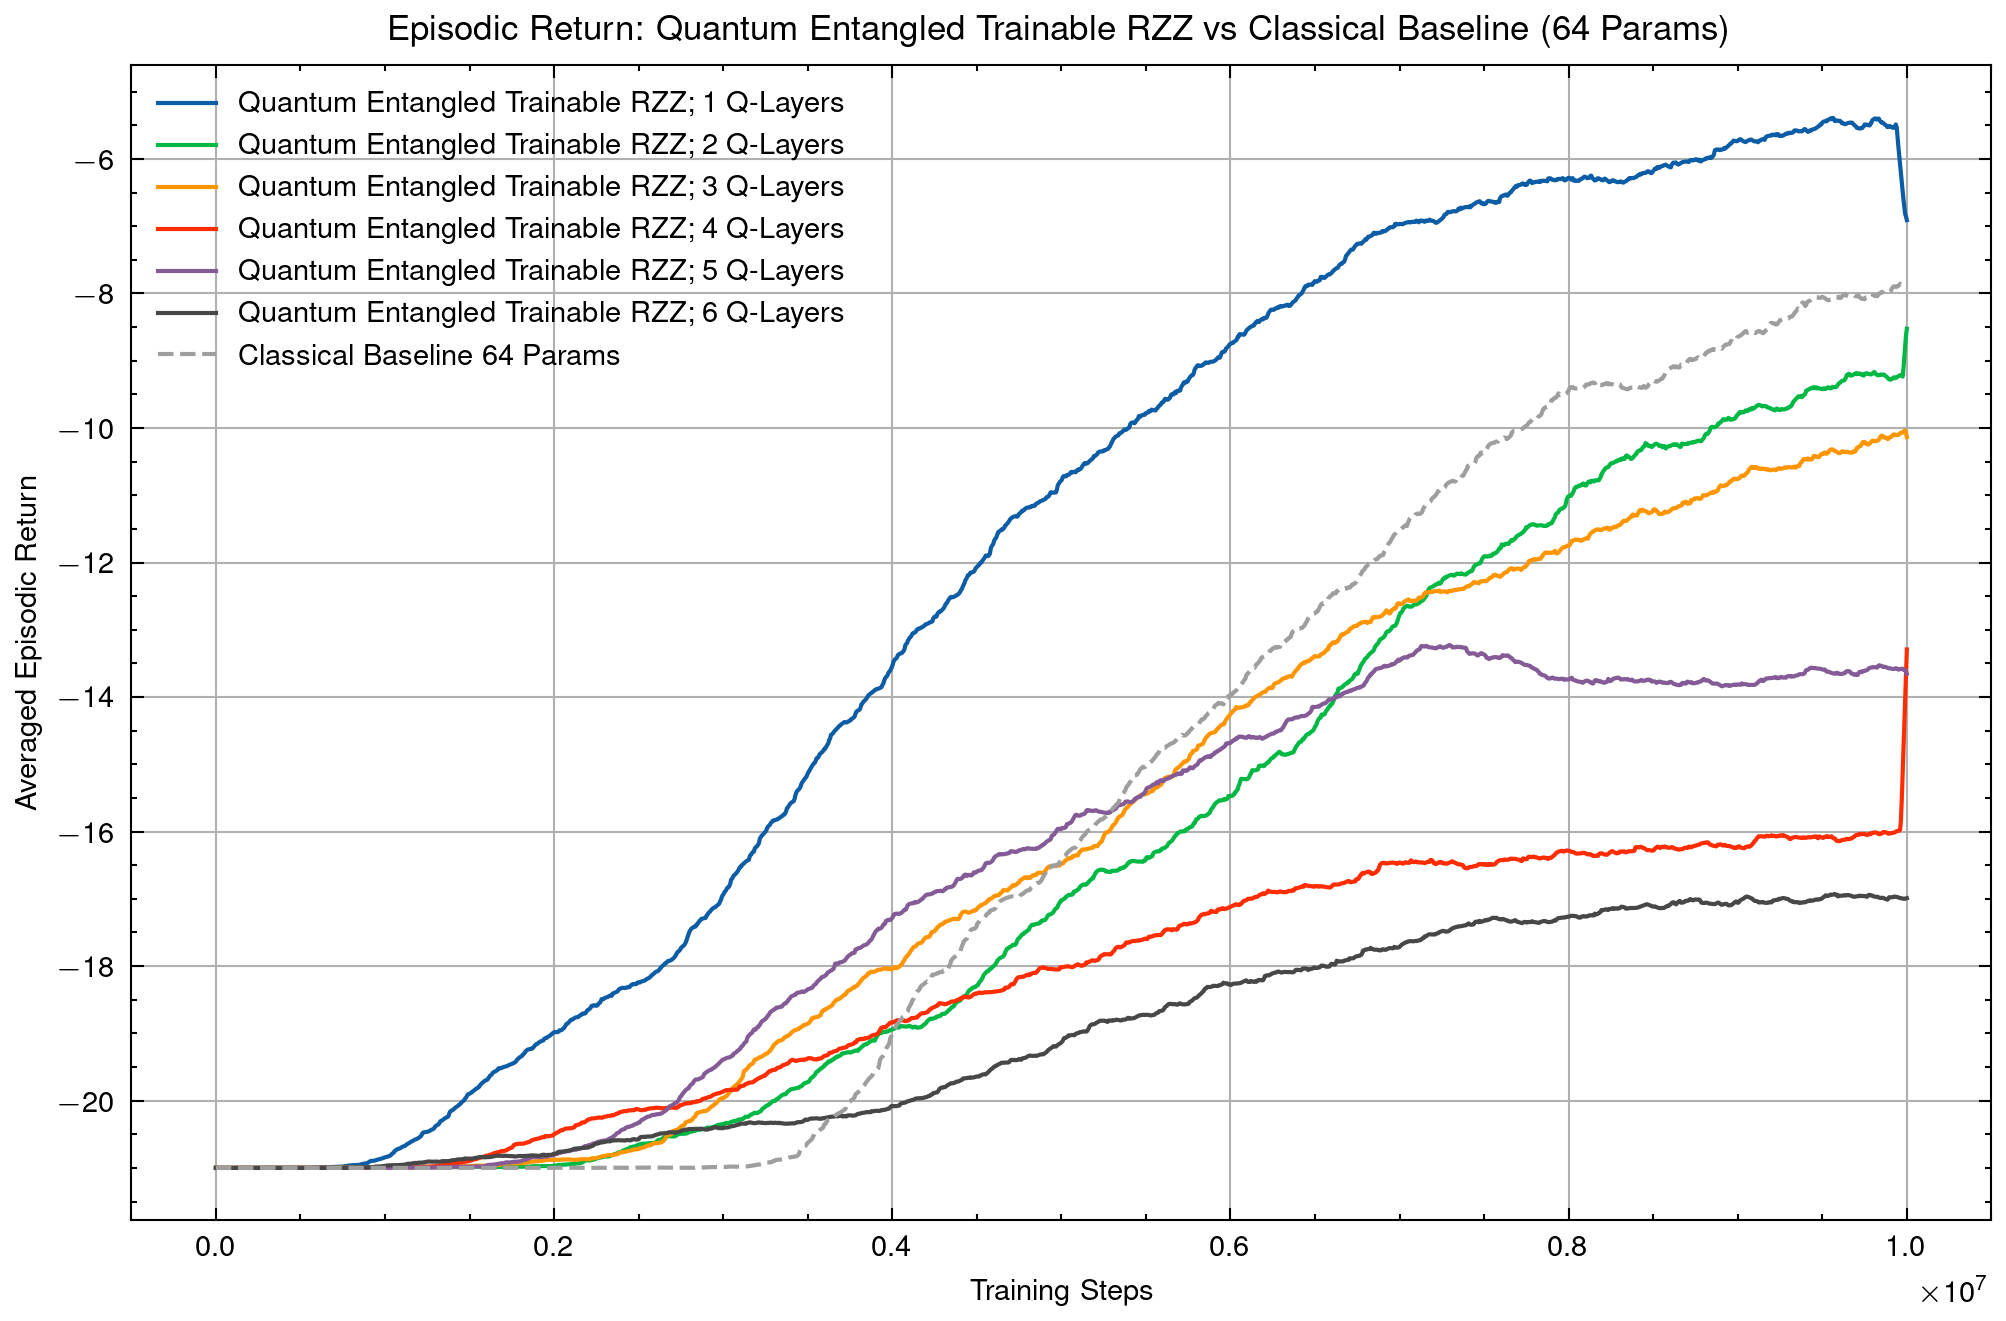
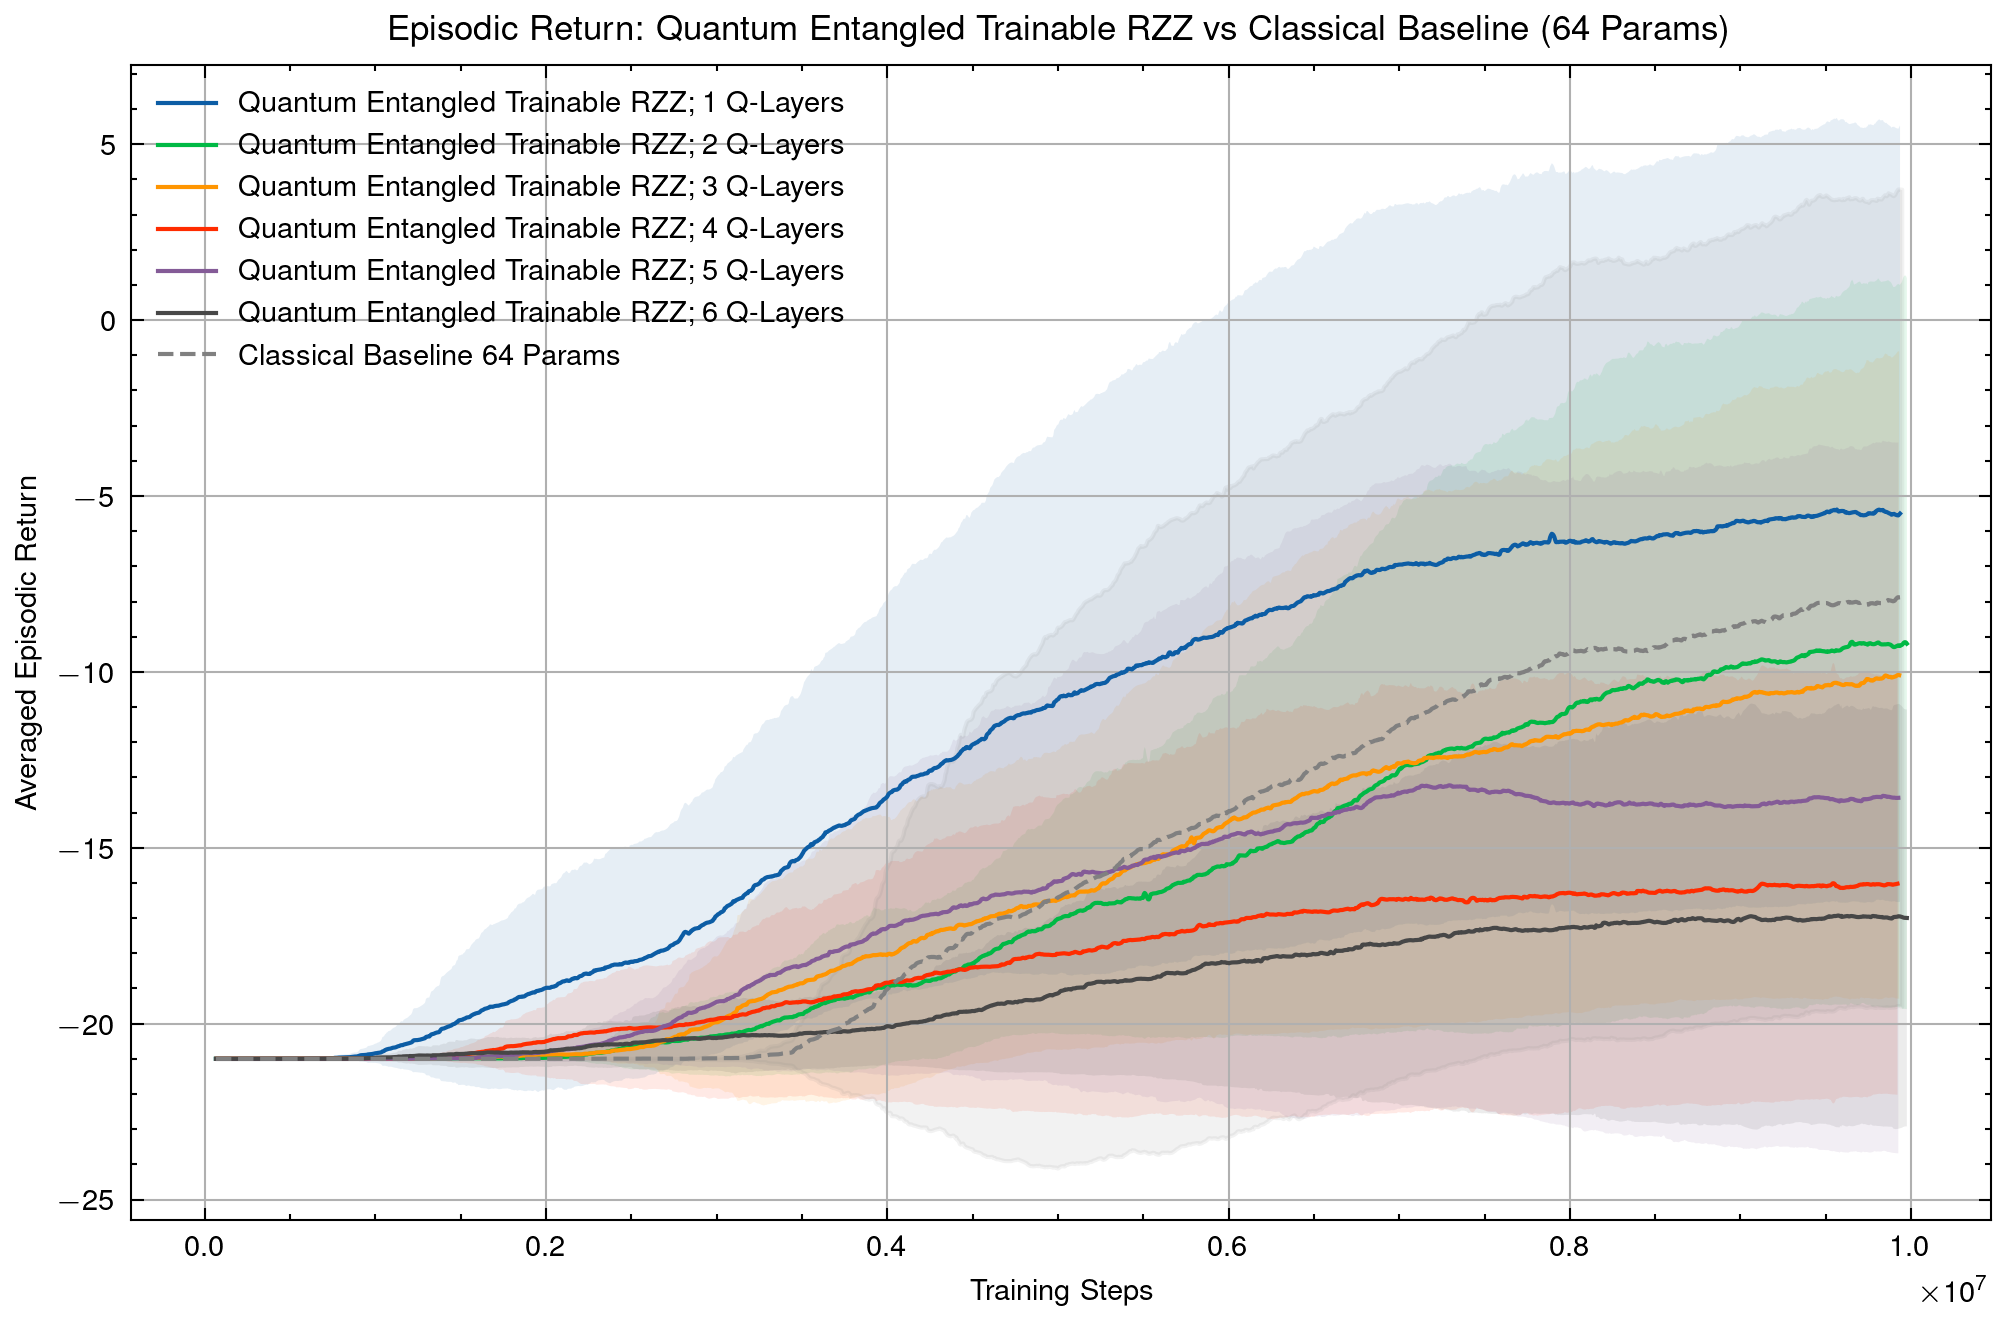
Refactor plot generation to include standard deviation shading and update interpolation methods

diff --git a/generate_plots.py b/generate_plots.py
@@ -3,7 +3,7 @@ import os
 from pathlib import Path
 import pandas as pd
 import numpy as np
-from scipy.interpolate import interp1d
+from scipy.interpolate import PchipInterpolator, Akima1DInterpolator
 import matplotlib.pyplot as plt
 import seaborn as sns
 import scienceplots
@@ -115,7 +115,7 @@ def smooth_and_resample(df, span=50):
     Smooth the time series data using EMA and resample to uniform steps.
     """
     df_smoothed = time_series_exponential_moving_average(df, span=span)
-    interp_func = interp1d(df_smoothed['step'], df_smoothed['value'], kind='linear', fill_value="extrapolate")
+    interp_func = Akima1DInterpolator(df_smoothed['step'], df_smoothed['value'], extrapolate=None)
     resampled_values = interp_func(UNIFORM_STEPS)
     df_resampled = pd.DataFrame({'step': UNIFORM_STEPS, 'value': resampled_values})
     return df_resampled
@@ -130,7 +130,24 @@ def mean_across_runs(dfs, span=50):
     df_mean = pd.DataFrame({'step': UNIFORM_STEPS, 'value': mean_values})
     return df_mean
 
+def std_across_runs(dfs, span=50):
+    """
+    Given a list of dataframes (each for a run), smooth and resample them,
+    then compute the standard deviation across runs.
+    """
+    resampled_dfs = [smooth_and_resample(df, span=span) for df in dfs]
+    std_values = np.std([df['value'].values for df in resampled_dfs], axis=0)
+    df_std = pd.DataFrame({'step': UNIFORM_STEPS, 'value': std_values})
+    return df_std
+
 if __name__ == "__main__":
+    # Color palette
+    # Classical baseline: Gray-dashed
+    # Quantum models: Different prime colors for different type of models
+    # Different minor colors for different number of layers
+    CLASSICAL_COLOR = 'gray'
+    SHADE_ALPHA = 0.1
+
     # 1. Compare quantum models w.r.t. classical baseline with 64 parameters
     # 1.1 Separable quantum model vs classical baseline, episodic return
     fig = plt.figure(figsize=FIG_SIZE)
@@ -141,11 +158,15 @@ if __name__ == "__main__":
         run_dfs = [select_step_value(load_csv_as_df(f), '0-Episodic-Stats/episodic_return') for f in files]
         df_mean = mean_across_runs(run_dfs, span=EMA_SPAN)
         plt.plot(df_mean['step'], df_mean['value'], label=f'Quantum Separable; {n_layers} Q-Layers')
+        df_std = std_across_runs(run_dfs, span=EMA_SPAN)
+        plt.fill_between(df_std['step'], df_mean['value'] - df_std['value'], df_mean['value'] + df_std['value'], alpha=SHADE_ALPHA,)
     # Classical baseline with 64 parameters
     files = res_groups['classical_64']
     run_dfs = [select_step_value(load_csv_as_df(f), '0-Episodic-Stats/episodic_return') for f in files]
     df_mean = mean_across_runs(run_dfs, span=EMA_SPAN)
-    plt.plot(df_mean['step'], df_mean['value'], label='Classical Baseline 64 Params', linestyle='--')
+    df_std = std_across_runs(run_dfs, span=EMA_SPAN)
+    plt.fill_between(df_std['step'], df_mean['value'] - df_std['value'], df_mean['value'] + df_std['value'], alpha=SHADE_ALPHA, color=CLASSICAL_COLOR)
+    plt.plot(df_mean['step'], df_mean['value'], label='Classical Baseline 64 Params', linestyle='--', color=CLASSICAL_COLOR)
     plt.xlabel('Training Steps')
     plt.ylabel('Averaged Episodic Return')
     plt.title('Episodic Return: Quantum Separable vs Classical Baseline (64 Params)')
@@ -163,11 +184,15 @@ if __name__ == "__main__":
         run_dfs = [select_step_value(load_csv_as_df(f), '0-Episodic-Stats/episodic_return') for f in files]
         df_mean = mean_across_runs(run_dfs, span=EMA_SPAN)
         plt.plot(df_mean['step'], df_mean['value'], label=f'Quantum Entangled; {n_layers} Q-Layers')
+        df_std = std_across_runs(run_dfs, span=EMA_SPAN)
+        plt.fill_between(df_std['step'], df_mean['value'] - df_std['value'], df_mean['value'] + df_std['value'], alpha=SHADE_ALPHA)
     # Classical baseline with 64 parameters
     files = res_groups['classical_64']
     run_dfs = [select_step_value(load_csv_as_df(f), '0-Episodic-Stats/episodic_return') for f in files]
     df_mean = mean_across_runs(run_dfs, span=EMA_SPAN)
-    plt.plot(df_mean['step'], df_mean['value'], label='Classical Baseline 64 Params', linestyle='--')
+    df_std = std_across_runs(run_dfs, span=EMA_SPAN)
+    plt.fill_between(df_std['step'], df_mean['value'] - df_std['value'], df_mean['value'] + df_std['value'], alpha=SHADE_ALPHA, color=CLASSICAL_COLOR)
+    plt.plot(df_mean['step'], df_mean['value'], label='Classical Baseline 64 Params', linestyle='--', color=CLASSICAL_COLOR)
     plt.xlabel('Training Steps')
     plt.ylabel('Averaged Episodic Return')
     plt.title('Episodic Return: Quantum Entangled vs Classical Baseline (64 Params)')
@@ -185,11 +210,15 @@ if __name__ == "__main__":
         run_dfs = [select_step_value(load_csv_as_df(f), '0-Episodic-Stats/episodic_return') for f in files]
         df_mean = mean_across_runs(run_dfs, span=EMA_SPAN)
         plt.plot(df_mean['step'], df_mean['value'], label=f'Quantum Entangled Trainable RZZ; {n_layers} Q-Layers')
+        df_std = std_across_runs(run_dfs, span=EMA_SPAN)
+        plt.fill_between(df_std['step'], df_mean['value'] - df_std['value'], df_mean['value'] + df_std['value'], alpha=SHADE_ALPHA)
     # Classical baseline with 64 parameters
     files = res_groups['classical_64']
     run_dfs = [select_step_value(load_csv_as_df(f), '0-Episodic-Stats/episodic_return') for f in files]
     df_mean = mean_across_runs(run_dfs, span=EMA_SPAN)
-    plt.plot(df_mean['step'], df_mean['value'], label='Classical Baseline 64 Params', linestyle='--')
+    plt.plot(df_mean['step'], df_mean['value'], label='Classical Baseline 64 Params', linestyle='--', color=CLASSICAL_COLOR)
+    df_std = std_across_runs(run_dfs, span=EMA_SPAN)
+    plt.fill_between(df_std['step'], df_mean['value'] - df_std['value'], df_mean['value'] + df_std['value'], alpha=SHADE_ALPHA, color=CLASSICAL_COLOR)
     plt.xlabel('Training Steps')
     plt.ylabel('Averaged Episodic Return')
     plt.title('Episodic Return: Quantum Entangled Trainable RZZ vs Classical Baseline (64 Params)')
@@ -207,22 +236,28 @@ if __name__ == "__main__":
             run_dfs = [select_step_value(load_csv_as_df(f), '0-Episodic-Stats/episodic_return') for f in files]
             df_mean = mean_across_runs(run_dfs, span=EMA_SPAN)
             plt.plot(df_mean['step'], df_mean['value'], label=f'Quantum Separable; {n_layers} Q-Layers')
+            df_std = std_across_runs(run_dfs, span=EMA_SPAN)
+            plt.fill_between(df_std['step'], df_mean['value'] - df_std['value'], df_mean['value'] + df_std['value'], alpha=SHADE_ALPHA)
         # Entangled model
         files = res_groups['quantum_entangled'].get(n_layers, [])
         if files:
             run_dfs = [select_step_value(load_csv_as_df(f), '0-Episodic-Stats/episodic_return') for f in files]
             df_mean = mean_across_runs(run_dfs, span=EMA_SPAN)
             plt.plot(df_mean['step'], df_mean['value'], label=f'Quantum Entangled; {n_layers} Q-Layers')
+            df_std = std_across_runs(run_dfs, span=EMA_SPAN)
+            plt.fill_between(df_std['step'], df_mean['value'] - df_std['value'], df_mean['value'] + df_std['value'], alpha=SHADE_ALPHA)
         # Entangled trainable rzz model
         files = res_groups['quantum_entangled_trainable_rzz'].get(n_layers, [])
         if files:
             run_dfs = [select_step_value(load_csv_as_df(f), '0-Episodic-Stats/episodic_return') for f in files]
             df_mean = mean_across_runs(run_dfs, span=EMA_SPAN)
             plt.plot(df_mean['step'], df_mean['value'], label=f'Quantum Entangled Trainable RZZ; {n_layers} Q-Layers')
+            df_std = std_across_runs(run_dfs, span=EMA_SPAN)
+            plt.fill_between(df_std['step'], df_mean['value'] - df_std['value'], df_mean['value'] + df_std['value'], alpha=SHADE_ALPHA)
         plt.xlabel('Training Steps')
         plt.ylabel('Averaged Episodic Return')
-        plt.title(f'Episodic Return Comparison for {n_layers} Q-Layers')
         plt.legend()
+        plt.title(f'Episodic Return Comparison for {n_layers} Q-Layers')
         plt.grid(True)
         plt.savefig(PLOTS_FOLDER / f'episodic_return_quantum_only_comparison_{n_layers}_layers.png', dpi=FIG_DPI)
         plt.close()
